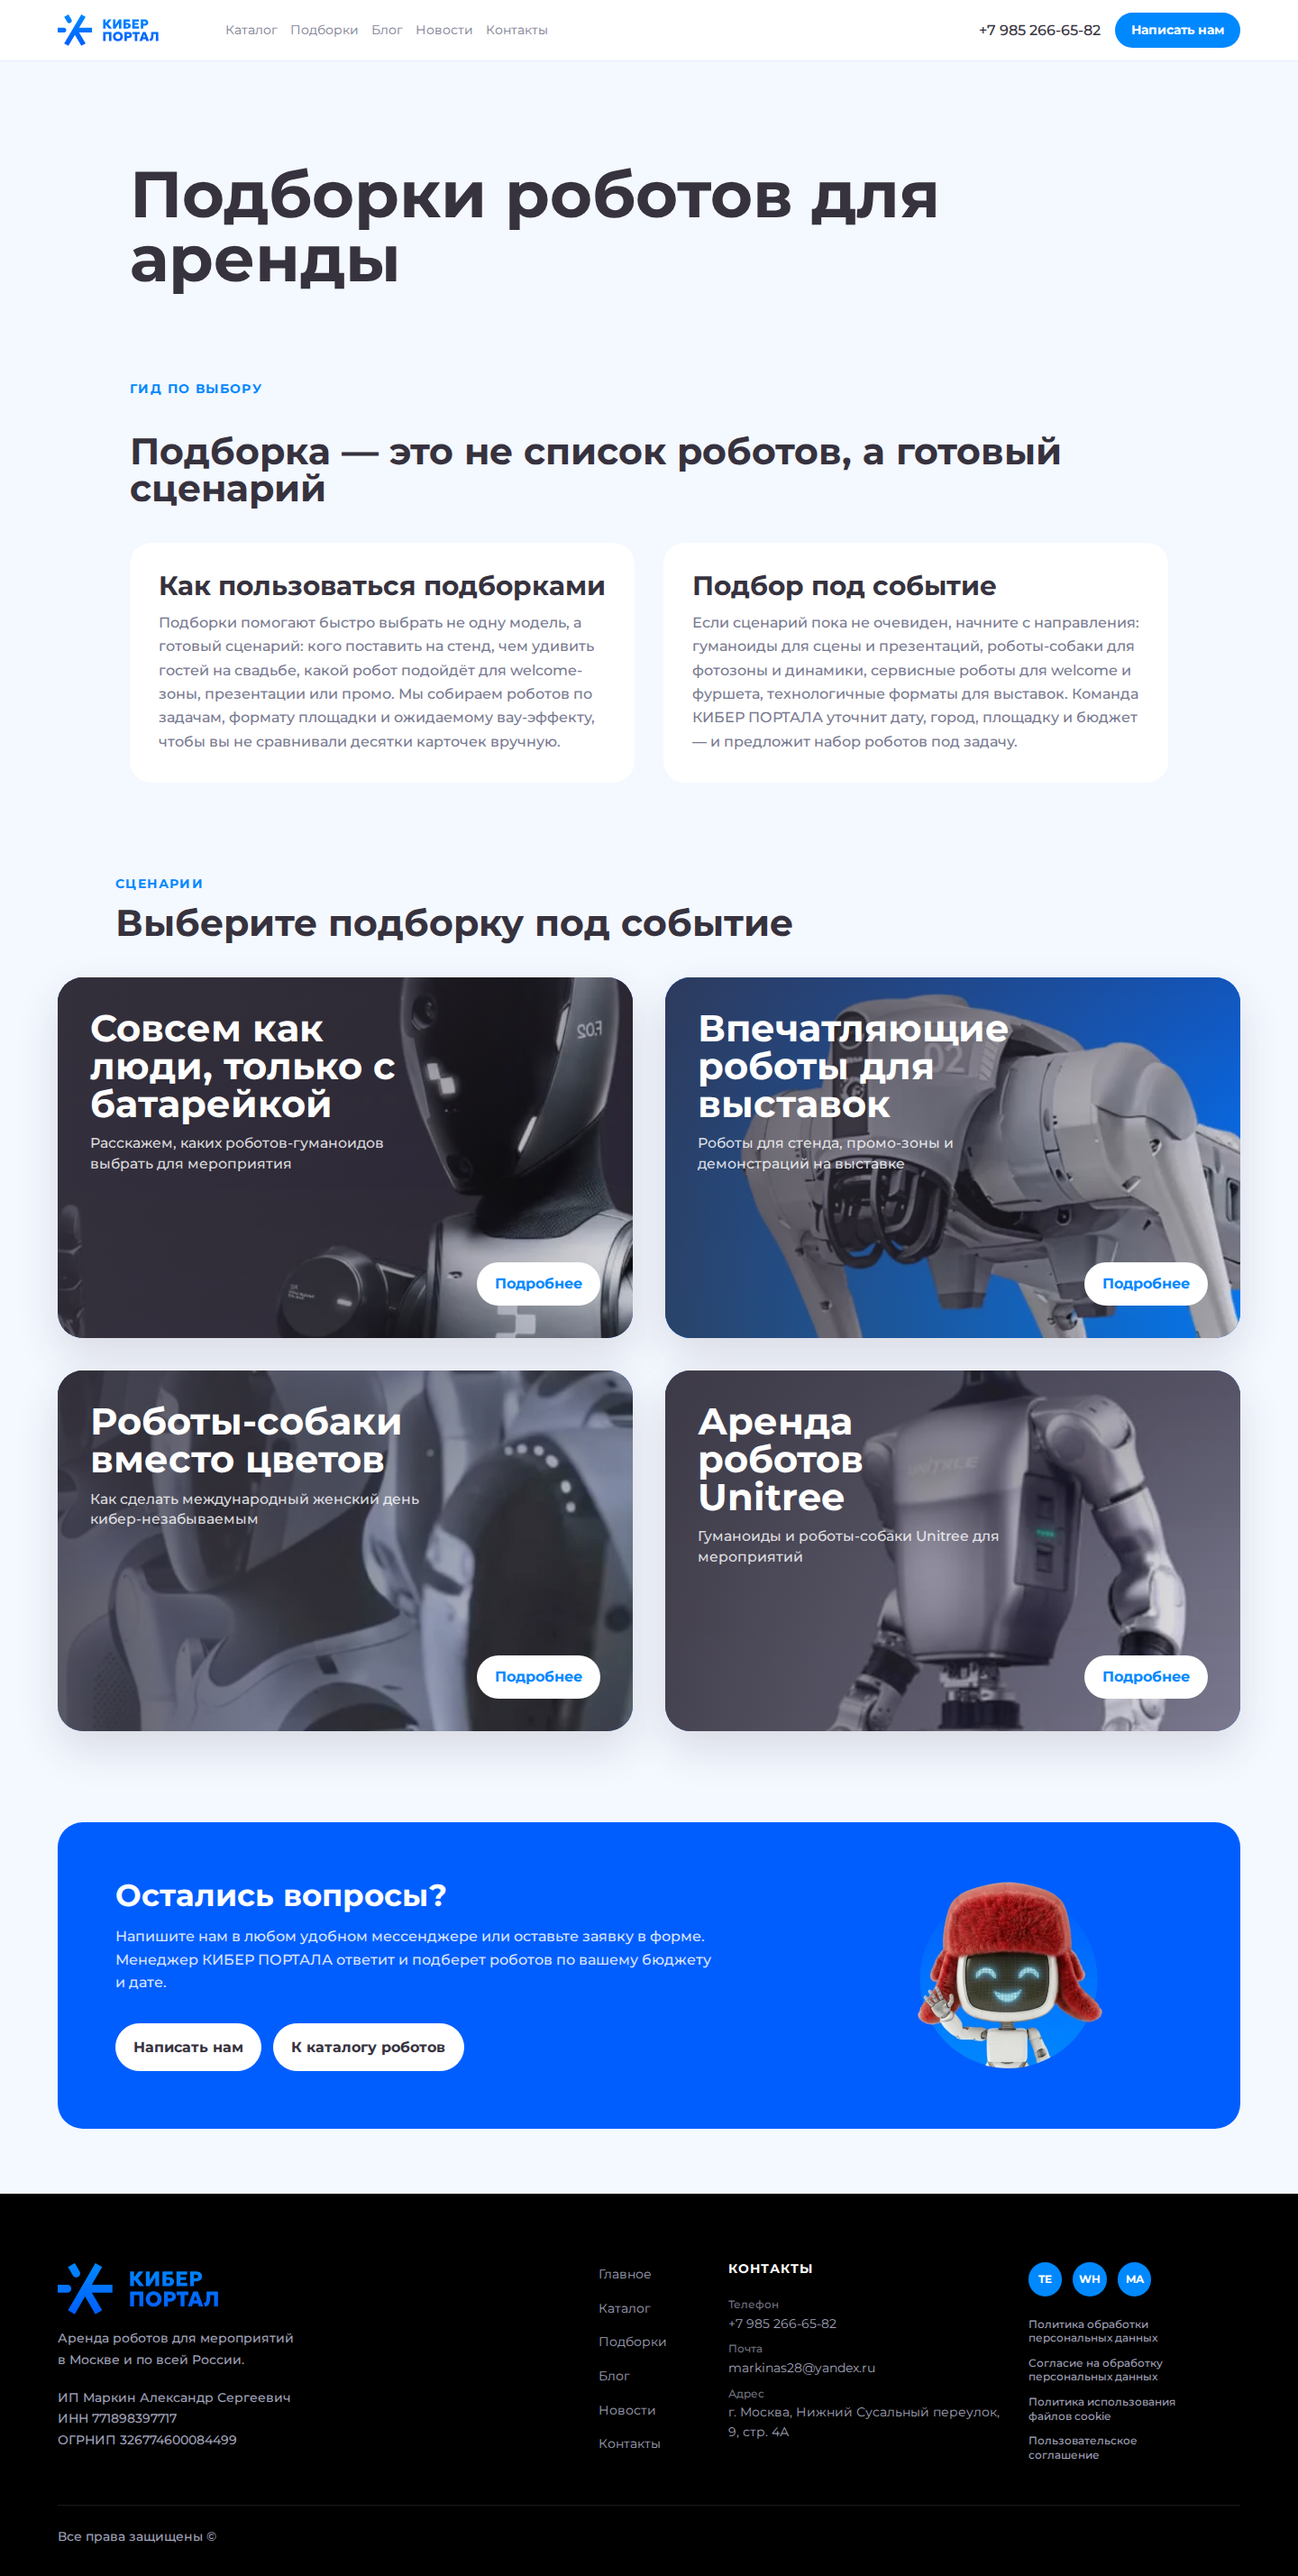
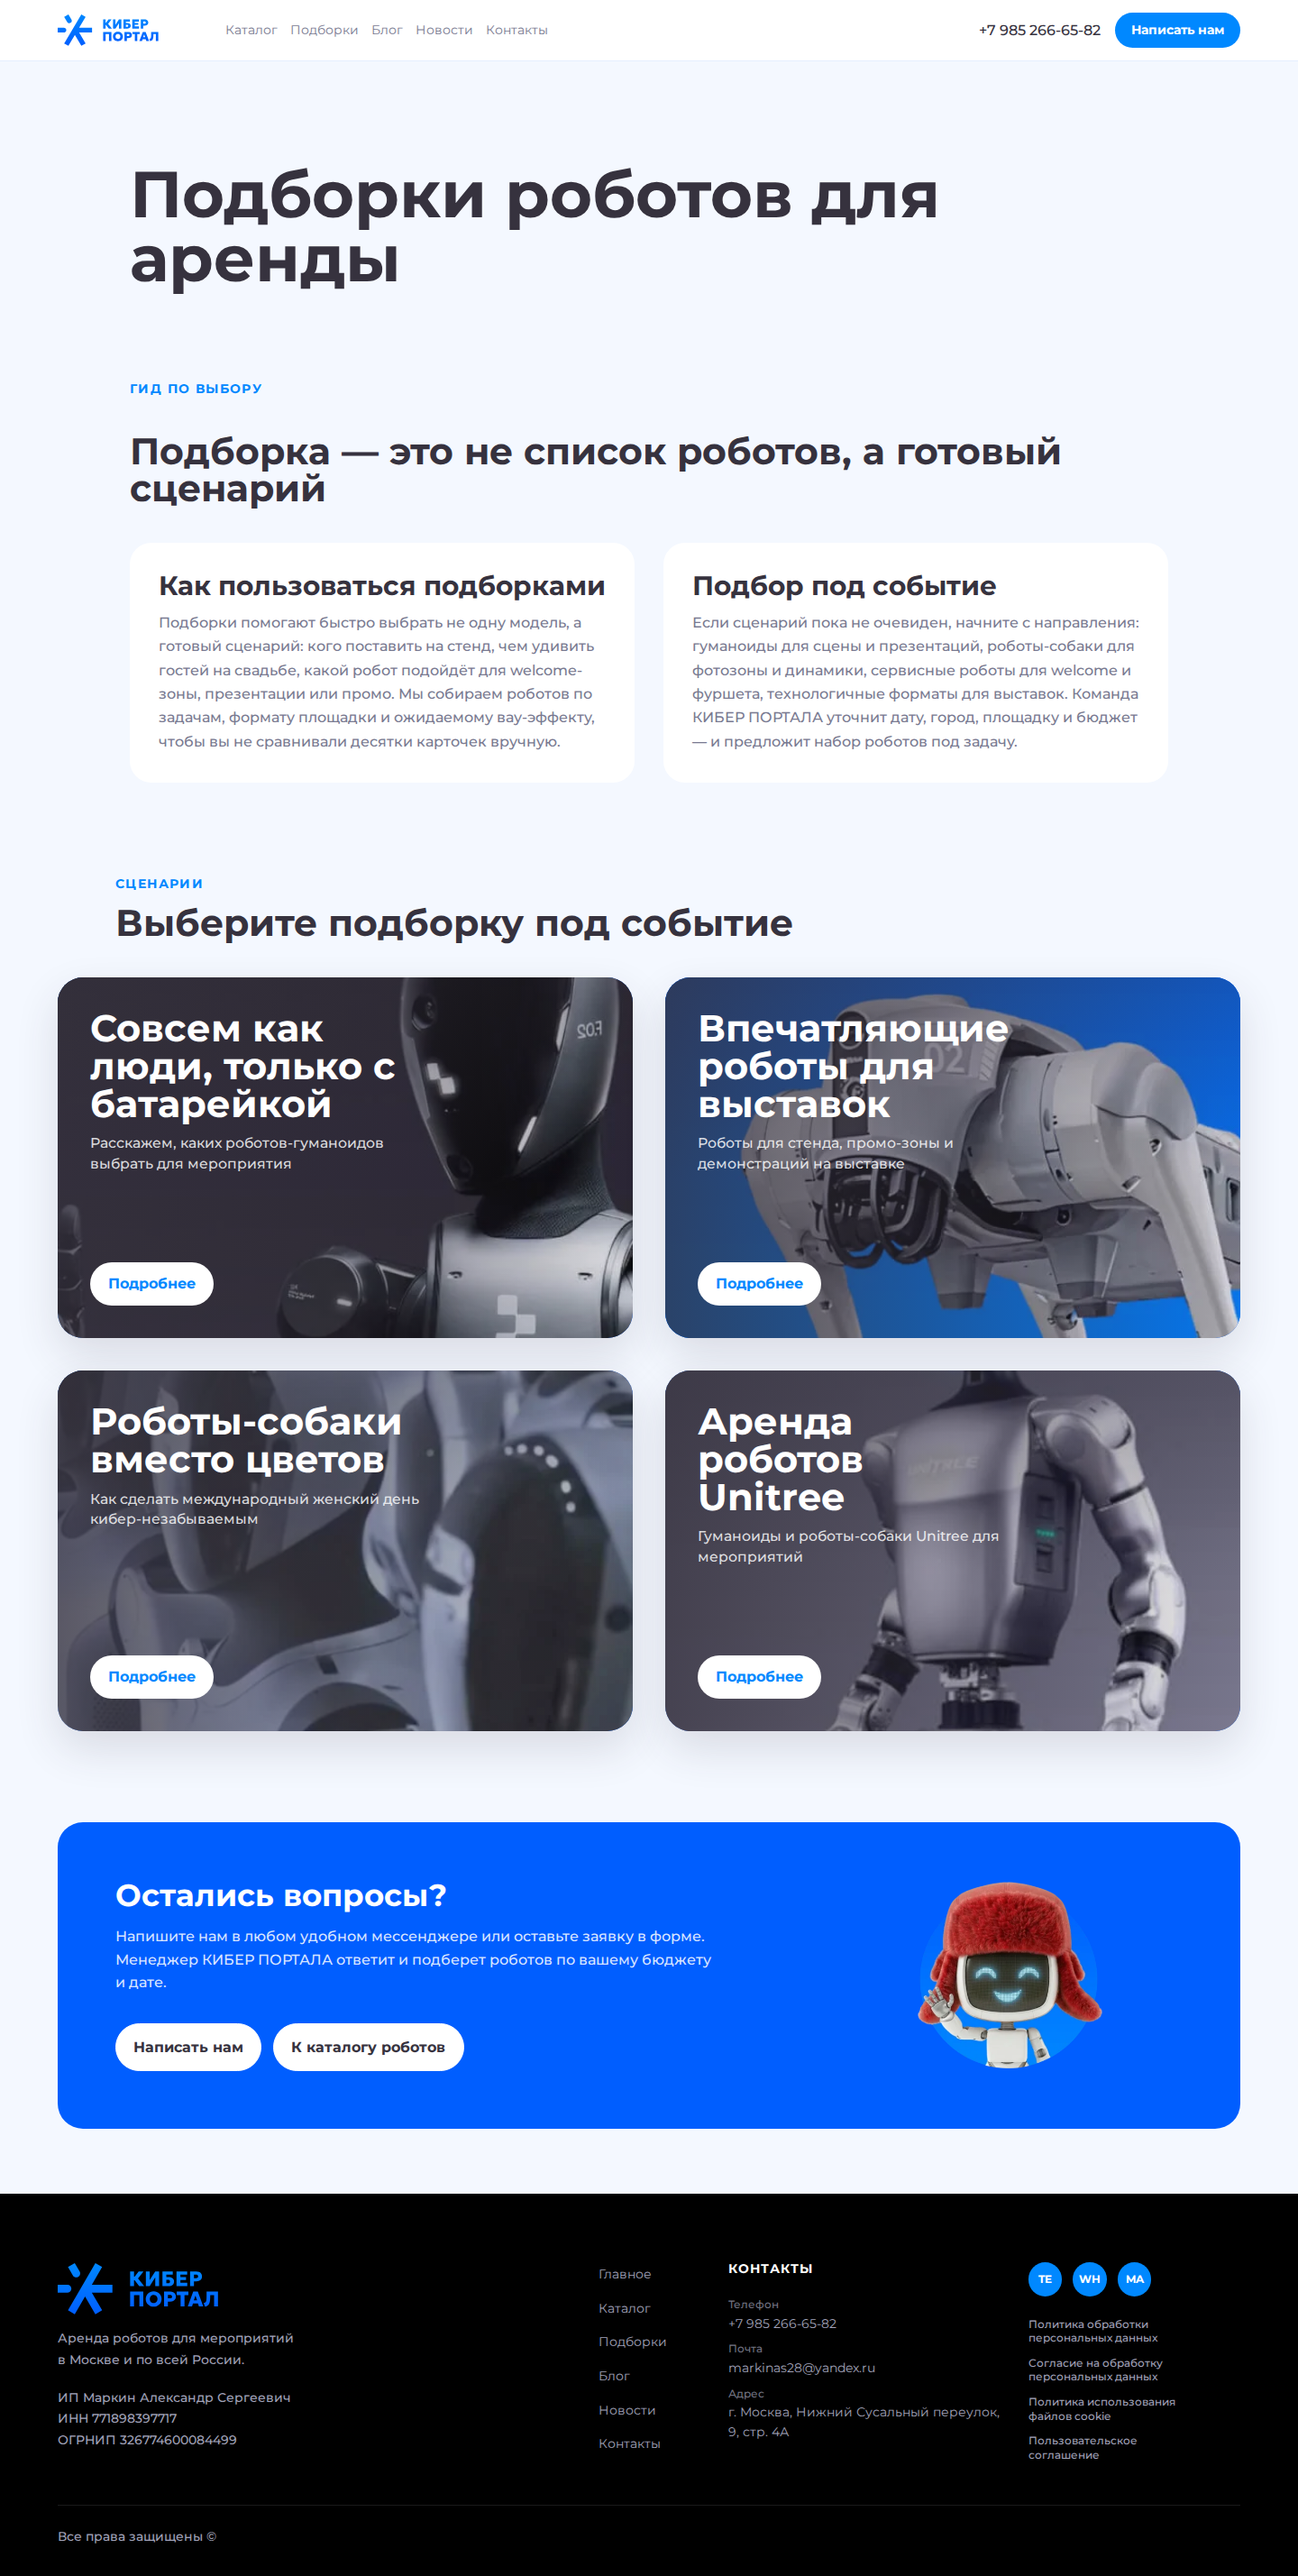
fix: align compilations card buttons left

diff --git a/tests/visual/compilations-index-page.test.ts b/tests/visual/compilations-index-page.test.ts
@@ -42,7 +42,7 @@ test('KIBER-91 compilations index uses two-column card layout on desktop', () =>
   assert.match(page, /@media \(max-width: 56rem\)[\s\S]*min-height:\s*22\.5rem/);
   assert.match(page, /@media \(max-width: 39\.9375rem\)[\s\S]*min-height:\s*23\.75rem/);
   assert.match(page, /\.compilations-page__card \{[\s\S]*display:\s*flex[\s\S]*flex-direction:\s*column[\s\S]*align-items:\s*flex-start/);
-  assert.match(page, /\.compilations-page__card-cta \{[\s\S]*margin-top:\s*auto/);
+  assert.match(page, /\.compilations-page__card-cta \{[\s\S]*align-self:\s*flex-start[\s\S]*margin-top:\s*auto/);
 });
 
 test('KIBER-91 QA finding no longer lists compilations as unresolved placeholder', () => {
